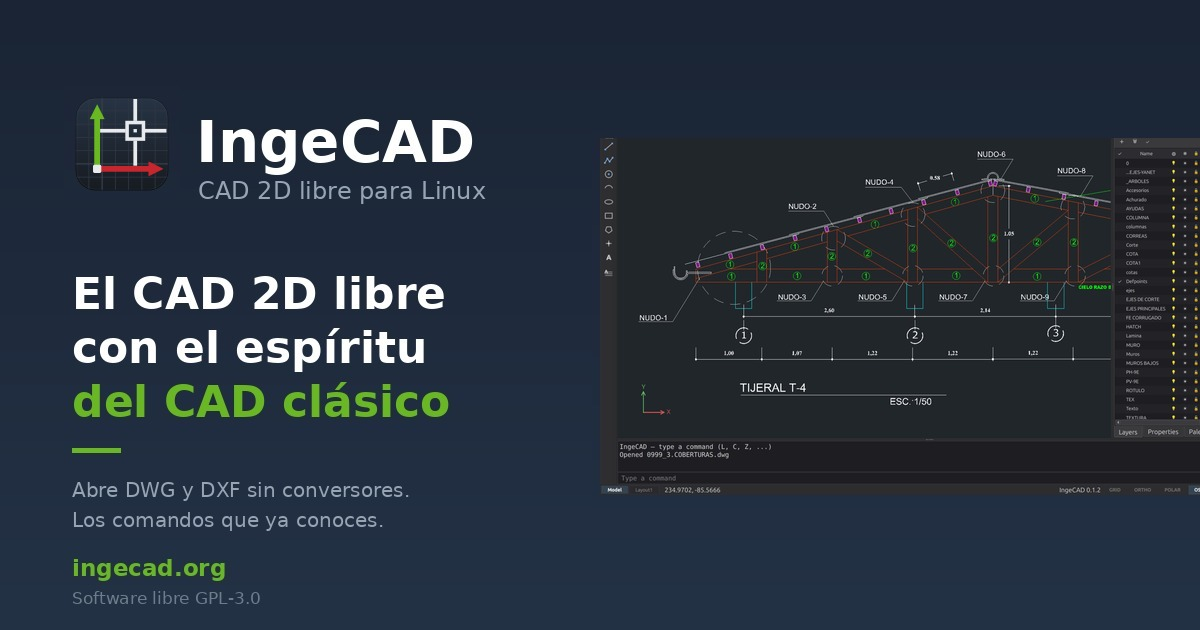
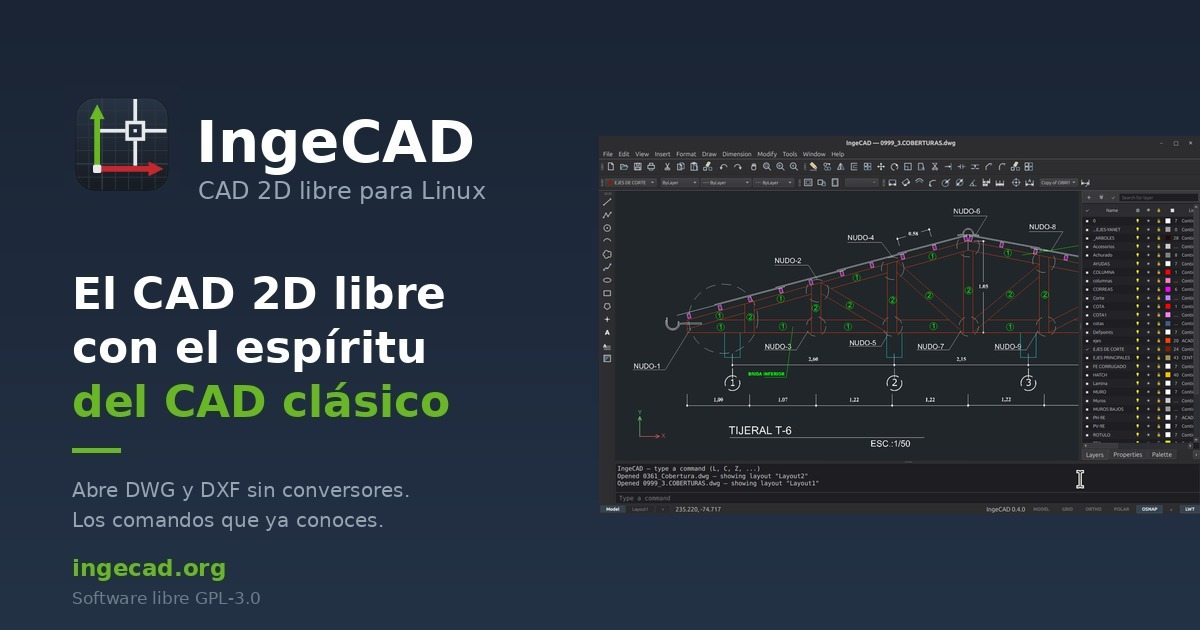
images: the hero screenshot is the v0.4.0 app, not the v0.1.2 one
Marco recaptured the same drawing — the truss detail of
0999_3.COBERTURAS.dwg — with the current app. The one on the site was
from v0.1.2 and showed neither the Standard toolbar nor the Properties
bar, so the picture was three releases behind the product it advertises.

The OG banner carried that same old screenshot, which is what shows when
the link is shared, so its patch was replaced too: the capture scaled to
601 px wide at (599, 136) and nothing else about the banner touched — the
typography was composed by hand and is not worth re-deriving.

Alt text now names what is actually visible, the Properties bar included.

diff --git a/index.html b/index.html
@@ -195,7 +195,7 @@
     </div>
     <div class="hero-screenshot-wrap">
       <img class="hero-img" src="images/screenshots/principal.jpeg"
-           alt="IngeCAD con un plano de estructuras abierto: el detalle de un tijeral con sus nudos numerados, cotas y el administrador de capas"
+           alt="IngeCAD con un plano de estructuras abierto: el detalle de un tijeral con sus nudos numerados y acotados, la barra de propiedades con capa, color y grosor, y el administrador de capas"
            width="1600" height="1005" loading="eager" fetchpriority="high">
     </div>
   </section>
@@ -307,7 +307,7 @@
         </div>
         <figure class="feat-img">
           <img class="zoomable" src="images/screenshots/principal.jpeg"
-               alt="El detalle de un tijeral en IngeCAD, con el administrador de capas, las barras de dibujo y modificación y las pestañas Modelo y presentación" width="1600" height="1005" loading="lazy">
+               alt="El detalle de un tijeral en IngeCAD, con el administrador de capas, las barras estándar, de dibujo y de modificación, la barra de propiedades y las pestañas Modelo y presentación" width="1600" height="1005" loading="lazy">
         </figure>
       </div>
     </section>

diff --git a/CLAUDE.md b/CLAUDE.md
@@ -65,8 +65,13 @@ falta de nuevo, lo esencial es esas dos líneas.
 reales, no estimados):
 
 - `principal.jpeg` — hero: **0999_3.COBERTURAS.dwg** (4 228 entidades, 32 capas,
-  r2013), el detalle del tijeral T-4 con nudos numerados y cotas. Reusada en «Lo
-  que usas todos los días» **y dentro del banner OG**.
+  r2013), el detalle del tijeral con nudos numerados y cotas. Reusada en «Lo
+  que usas todos los días» **y dentro del banner OG**. **Recapturada por Marco
+  el 2026-08-13 con la v0.4.0** (la anterior era de la v0.1.2 y ya no mostraba
+  ni la barra estándar ni la de propiedades). El parche del banner OG se
+  reemplazó pegando la captura escalada en **(599, 136), 601 px de ancho hasta
+  el borde derecho**, con la altura derivada de la proporción — el resto del
+  banner no se tocó, que es la regla de este archivo.
 - `dwg-colega.jpeg` — **casa.dwg** (200 entidades, 11 capas, **r2018**): planta
   de vivienda con mobiliario, cotas y nombres de ambiente. Va en la sección de
   DWG a propósito: es r2018, o sea la prueba del bullet «Lee DWG hasta AutoCAD
